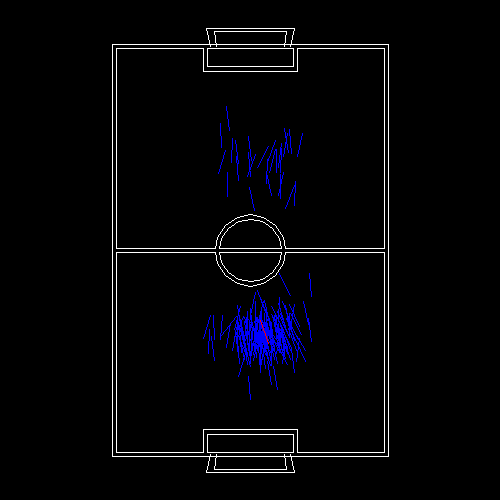
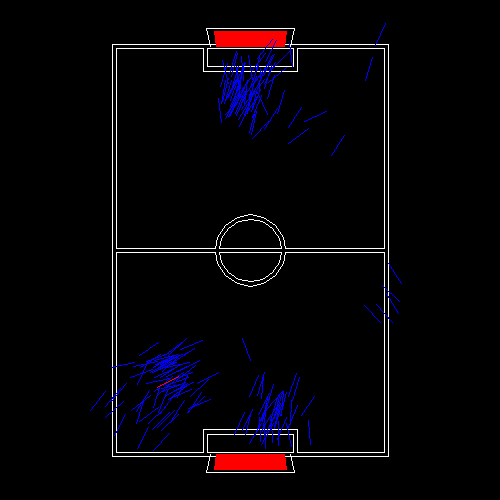
goals colored red

diff --git a/shape.py b/shape.py
@@ -9,15 +9,32 @@ class Shape:
         if lines is None:
             lines = []
         self.lines = lines
+        self.polygons = []
 
     def draw(self, img, dir2color=False):
         for line in self.lines:
             line.draw(img, dir2color)
+        width = img.shape[0]
+        height = img.shape[1]
+        for polygon in self.polygons:
+            if len(polygon) < 2:
+                continue
+            points = []
+            for line in polygon:
+                points.append((int(line.a[0]) + width // 2, height // 2 + int(line.a[1])))
+                points.append((int(line.b[0]) + width // 2, height // 2 + int(line.b[1])))
+            points = np.array([points])
+            # points = [(int(line.a[0]) + width // 2, height // 2 + int(line.a[1])) for line in polygon]
+            cv2.fillPoly(img, points, (0, 0, 255))
+
+    def draw_raw(self, img, dir2color=False):
+        for line in self.lines:
+            line.draw_raw(img, dir2color)
 
     def transform(self, transformation: np.array):
         for line in self.lines:
-            line.a = transformation * line.a
-            line.b = transformation * line.b
+            line.a = transformation.dot(line.a)
+            line.b = transformation.dot(line.b)
 
     def stroke(self, width: float):
         """
@@ -115,6 +132,83 @@ class Shape:
             new_lines = new_lines + line.subdivide_multiple_points(points)
         self.lines = new_lines
 
+
+class Pitch(Shape):
+    def __init__(self, length=9000, width=6000, goal_width=1500, goal_height=750, penalty_width=2000, penalty_depth=500, radius=750, samples=16):
+        super().__init__()
+
+        color = (255, 255, 255)
+        goal_width_outside = goal_width + 2 * 150
+        goal_height_outside = goal_height + 150
+        lines = [
+            # borders
+            Line([-width / 2, length / 2, 0, 1], [width / 2, length / 2, 0, 1], color),
+            Line([width / 2, length / 2, 0, 1], [width / 2, -length / 2, 0, 1], color),
+            Line([width / 2, -length / 2, 0, 1], [-width / 2, -length / 2, 0, 1], color),
+            Line([-width / 2, -length / 2, 0, 1], [-width / 2, length / 2, 0, 1], color),
+            # middle
+            Line([-width / 2, 0, 0, 1], [width / 2, 0, 0, 1], color),
+
+            # penalty areas
+            Line([-penalty_width / 2, length / 2, 0, 1], [-penalty_width / 2, length / 2 - penalty_depth, 0, 1], color),
+            Line([-penalty_width / 2, length / 2 - penalty_depth, 0, 1],
+                 [penalty_width / 2, length / 2 - penalty_depth, 0, 1], color),
+            Line([penalty_width / 2, length / 2, 0, 1], [penalty_width / 2, length / 2 - penalty_depth, 0, 1], color),
+
+            Line([-penalty_width / 2, -length / 2, 0, 1], [-penalty_width / 2, -length / 2 + penalty_depth, 0, 1],
+                 color),
+            Line([-penalty_width / 2, -length / 2 + penalty_depth, 0, 1],
+                 [penalty_width / 2, -length / 2 + penalty_depth, 0, 1], color),
+            Line([penalty_width / 2, -length / 2, 0, 1], [penalty_width / 2, -length / 2 + penalty_depth, 0, 1], color)
+        ]
+        angles = list(np.linspace(0, 2 * np.pi, samples + 1))
+        points = [[radius * np.cos(angle), radius * np.sin(angle), 0, 1] for angle in angles]
+        points[-1] = points[0]
+        for p1, p2 in zip(points[:-1], points[1:]):
+            pass
+            lines.append(Line(p1, p2, color))
+        self.lines = lines
+        self.subdivide()
+        self.stroke(50)
+        goals = [
+            # GOALS
+            # inside
+            Line([-goal_width / 2, length / 2, goal_height, 1], [goal_width / 2, length / 2, goal_height, 1], color),
+            Line([-goal_width / 2, -length / 2, goal_height, 1], [goal_width / 2, -length / 2, goal_height, 1], color),
+            Line([-goal_width / 2, length / 2, 0, 1], [-goal_width / 2, length / 2, goal_height, 1], color),
+            Line([goal_width / 2, length / 2, 0, 1], [goal_width / 2, length / 2, goal_height, 1], color),
+            Line([-goal_width / 2, -length / 2, 0, 1], [-goal_width / 2, -length / 2, goal_height, 1], color),
+            Line([goal_width / 2, -length / 2, 0, 1], [goal_width / 2, -length / 2, goal_height, 1], color),
+            # outside
+            Line([-goal_width_outside / 2, length / 2, goal_height_outside, 1],
+                 [goal_width_outside / 2, length / 2, goal_height_outside, 1], color),
+            Line([-goal_width_outside / 2, -length / 2, goal_height_outside, 1],
+                 [goal_width_outside / 2, -length / 2, goal_height_outside, 1], color),
+            Line([-goal_width_outside / 2, length / 2, 0, 1],
+                 [-goal_width_outside / 2, length / 2, goal_height_outside, 1],
+                 color),
+            Line([goal_width_outside / 2, length / 2, 0, 1],
+                 [goal_width_outside / 2, length / 2, goal_height_outside, 1],
+                 color),
+            Line([-goal_width_outside / 2, -length / 2, 0, 1],
+                 [-goal_width_outside / 2, -length / 2, goal_height_outside, 1], color),
+            Line([goal_width_outside / 2, -length / 2, 0, 1],
+                 [goal_width_outside / 2, -length / 2, goal_height_outside, 1],
+                 color),
+        ]
+        self.polygons.append([
+            Line([-goal_width / 2, length / 2, goal_height, 1], [goal_width / 2, length / 2, goal_height, 1], color),
+            # Line([goal_width / 2, length / 2, goal_height, 1], [goal_width / 2, length / 2, 0, 1], color),
+            Line([goal_width / 2, length / 2, 0, 1], [-goal_width / 2, length / 2, 0, 1], color),
+            # Line([-goal_width / 2, length / 2, 0, 1], [-goal_width / 2, length / 2, goal_height, 1], color),
+        ])
+        self.polygons.append([
+            Line([-goal_width / 2, -length / 2, goal_height, 1], [goal_width / 2, -length / 2, goal_height, 1], color),
+            # Line([goal_width / 2, -length / 2, goal_height, 1], [goal_width / 2, -length / 2, 0, 1], color),
+            Line([goal_width / 2, -length / 2, 0, 1], [-goal_width / 2, -length / 2, 0, 1], color),
+            # Line([-goal_width / 2, -length / 2, 0, 1], [-goal_width / 2, -length / 2, goal_height, 1], color),
+        ])
+        self.lines = self.lines + goals
 
 def pitch_factory(length=9000, width=6000, goal_width=1500, goal_height=750, penalty_width=2000, penalty_depth=500, radius=750, samples=16) -> Shape:
     color = (255, 255, 255)

diff --git a/run_on_data.py b/run_on_data.py
@@ -1,0 +1,52 @@
+import datetime
+import math
+import os
+
+import cv2
+import numpy as np
+
+from camera import Camera
+from particle import Particle
+from particle_filter import ParticleFilter
+from shape import pitch_factory, Pitch
+from transformations import rotation_x, translation
+from input import prepare_observation2
+
+
+if __name__ == '__main__':
+    pitch = Pitch()
+    camera = Camera()
+    camera.pose = rotation_x(- math.pi / 2 - 0.5).dot(camera.pose)
+    camera.pose = translation([0, -2000, 500]).dot(camera.pose)
+    camera.inv_pose = np.linalg.inv(camera.pose)
+
+    particle = Particle([0, -2000], 0, translation([0, 0, 500]).dot(rotation_x(- math.pi / 2)))
+    particle_count = 200
+    pf = ParticleFilter(particle, pitch, particle_count)
+    pf.cluster_manager.add_dimension('x', min=-3000, max=3000, subdivs=30)
+    pf.cluster_manager.add_dimension('y', min=-4500, max=4500, subdivs=45)
+    pf.cluster_manager.add_dimension('yaw', min=0, max=2 * np.pi, subdivs=36, is_cyclic=True)
+    np.random.seed(0)
+    X = (np.random.rand(particle_count) - 0.5) * 6000
+    Y = (np.random.rand(particle_count) - 0.5) * 9000
+    yaws = (np.random.rand(particle_count) - 0.5) * 2 * math.pi
+    particles = [Particle([X[i], Y[i]], yaws[i], translation([0, 0, 500]).dot(rotation_x(- math.pi / 2))) for i in range(particle_count)]
+    pf.particles = particles
+    pf.particles[0] = Particle([0, -20], 0, translation([0, 0, 500]).dot(rotation_x(- math.pi / 2 - 0.5)))
+    # pf.particles = []
+    iteration = 0
+    print(pf.cluster_manager.get_cluster_count())
+    files = os.listdir('./data')
+    files.sort(key=lambda x: int(x[:-4]))
+    for file in files:
+        img = cv2.imread(f"./data/{file}")
+        img = prepare_observation2(img)
+        cv2.imshow('obs', img)
+        pf.visualize()
+        pf.update_state('noop')
+        pf.visualize()
+        pf.update_observation(img)
+        iteration += 1
+        if iteration > 1:
+            pf.iterative_densest()
+    pass

diff --git a/input.py b/input.py
@@ -25,3 +25,41 @@ def prepare_observation(observation_shape: Shape, target_res=(200, 200)):
     img = np.zeros((target_res[0], target_res[1], 3), dtype=np.uint8)
     observation_shape.draw(img, dir2color=True)
     return img
+
+def blur(img, size):
+    return cv2.GaussianBlur(img, size, cv2.BORDER_DEFAULT)
+
+
+def prepare_observation2(observation_image: Shape, target_res=(200, 200)):
+    lower_lines = np.array([0, 0, 208])  # od 8 juz opornie
+    upper_lines = np.array([179, 255, 255])
+
+    green_lower = np.array([50, 122, 104])
+    green_upper = np.array([70, 162, 255])
+    # return observation_image
+    imgHSV = cv2.cvtColor(observation_image, cv2.COLOR_BGR2HSV)  # do hsv
+    green_mask = cv2.inRange(imgHSV, green_lower, green_upper)
+    kernel = np.ones((15, 15), np.uint8)
+    green_mask = cv2.dilate(green_mask, kernel, iterations=1)
+    green_mask = cv2.erode(green_mask, kernel, iterations=1)
+    gate_mask = cv2.inRange(imgHSV, lower_lines, upper_lines)
+    gate_mask = cv2.bitwise_and(gate_mask, green_mask)
+    edges = cv2.Canny(gate_mask, 150, 300)
+    lines = cv2.HoughLinesP(edges, rho=1, theta=np.pi * 0.5 / 180, threshold=10, minLineLength=20,
+                            maxLineGap=10)
+    img = gate_mask * 0
+    shape_lines = []
+    for line in lines:
+        [[x1, y1, x2, y2]] = line
+        cv2.line(img, (x1, y1), (x2, y2), (255, 0, 0), 1)
+        shape_lines.append(Line([x1, y1], [x2, y2], (255, 255, 255)))
+    shape = Shape(shape_lines)
+    scale_transformation = np.eye(2) * target_res[0]/img.shape[0]
+    shape.transform(scale_transformation)
+    img2 = np.zeros((target_res[0], target_res[1], 3), dtype=np.uint8)
+    shape.draw_raw(img2, True)
+    img2 = blur(img2, (15, 15))
+    img2 = img2 / img2.max() * 255
+    img2 = np.array(img2, dtype=np.uint8)
+
+    return img2

diff --git a/line.py b/line.py
@@ -26,6 +26,23 @@ class Line:
             # direction = math.atan2(vector[0], vector[1])
             # color =
             vector_length = np.linalg.norm(vector)
+            color = (int(abs(vector[0] / vector_length) * 255),
+                     int(abs(vector[1] / vector_length) * 255),
+                     0)
+        else:
+            color = self.color
+        cv2.line(img, p1, p2, color)
+        # cv2.circle(img, p1, 2, (0,0,255))
+        # cv2.circle(img, p2, 5, (0, 0, 255))
+
+    def draw_raw(self, img, dir2color=False):
+        p1 = (int(self.a[0]), int(self.a[1]))
+        p2 = (int(self.b[0]), int(self.b[1]))
+        if dir2color:
+            vector = self.b - self.a
+            # direction = math.atan2(vector[0], vector[1])
+            # color =
+            vector_length = np.linalg.norm(vector)
             color = (int(abs(vector[0]/vector_length) * 255),
                      int(abs(vector[1]/vector_length) * 255),
                      0)

diff --git a/camera.py b/camera.py
@@ -22,6 +22,14 @@ class Camera:
             new_line = self.project_line(line, inv_pose)
             if new_line is not None:
                 result.lines.append(new_line)
+
+        for polygon in shape.polygons:
+            new_polygon = []
+            for line in polygon:
+                new_line = self.project_line(line, inv_pose)
+                if new_line is not None:
+                    new_polygon.append(new_line)
+            result.polygons.append(new_polygon)
         return result
 
     def project_line(self,
